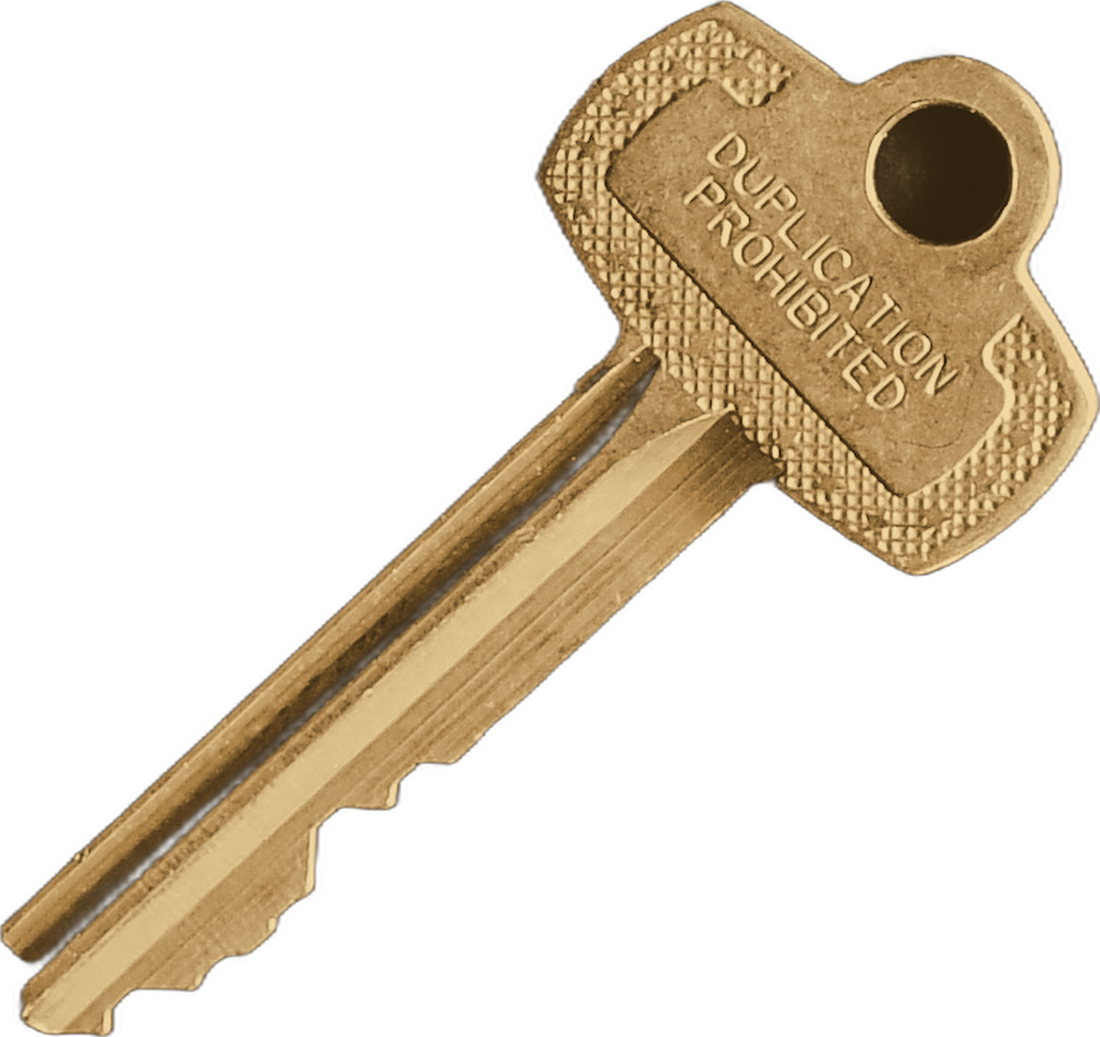
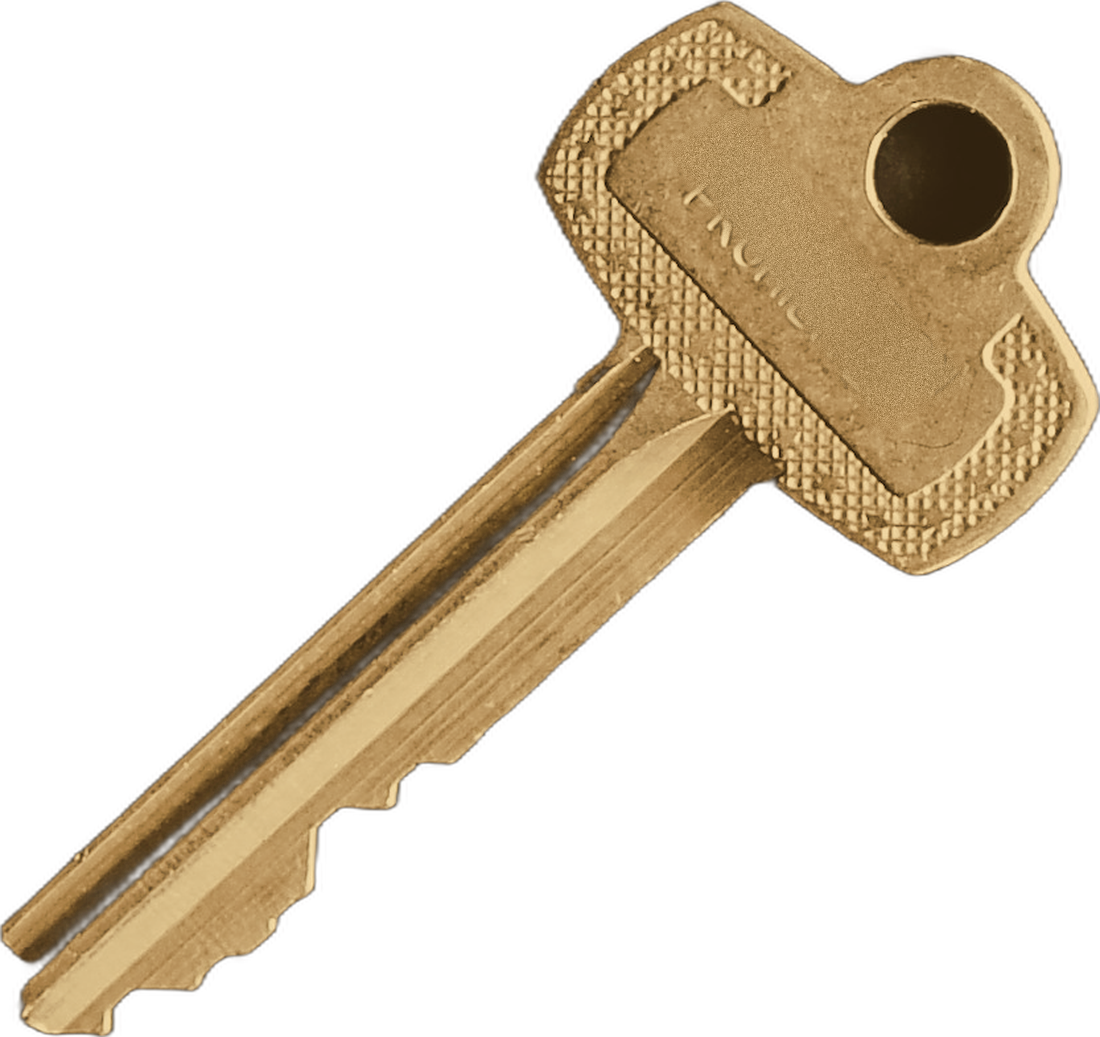
Winter swipe carousel: blur the stamp on the key
Claude-Session: https://claude.ai/code/session_017wiG7dxysSXVWE8UMga575

Changed region(s): [[0.6182, 0.1234, 0.8655, 0.4012]]

diff --git a/docs/log/2026-11-25-winter-swipe.md b/docs/log/2026-11-25-winter-swipe.md
@@ -38,3 +38,5 @@ switch. Open: his pick; the key is stamped "Duplication prohibited".
 
 Kyle: the wreath from set A, the box and key from set B. `comp.html` is now that combination (wreath Spencer Imbrock,
 box Giorgio Trovato, key Kelly Sikkema tinted brass); `comp-b.html` and the unused cutouts are gone.
+
+Kyle asked for the key's "Duplication prohibited" stamp to be blurred; done in `key.png` (feathered blur with grain).
